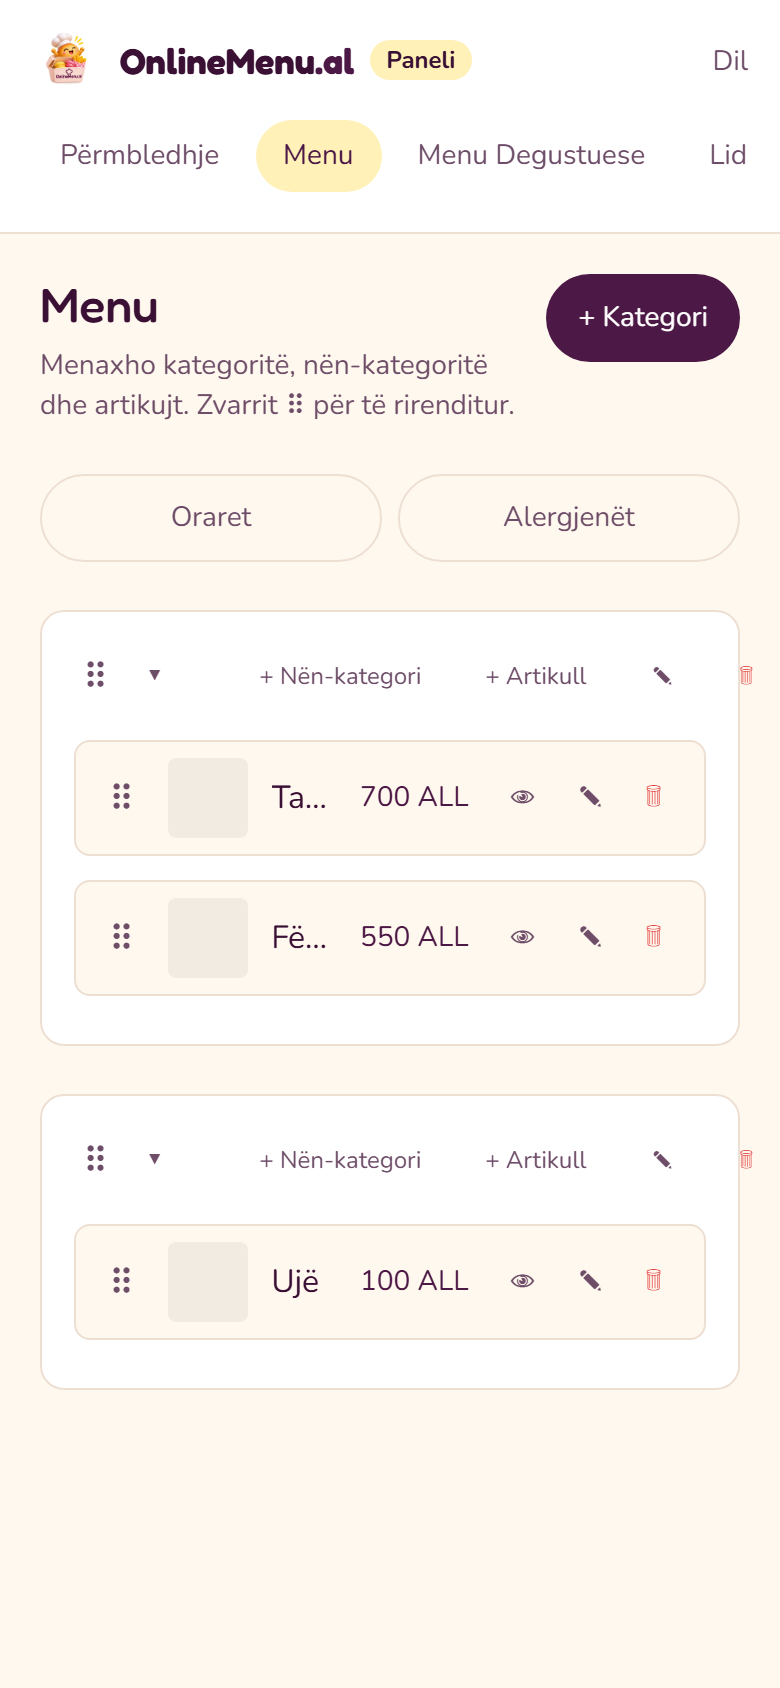
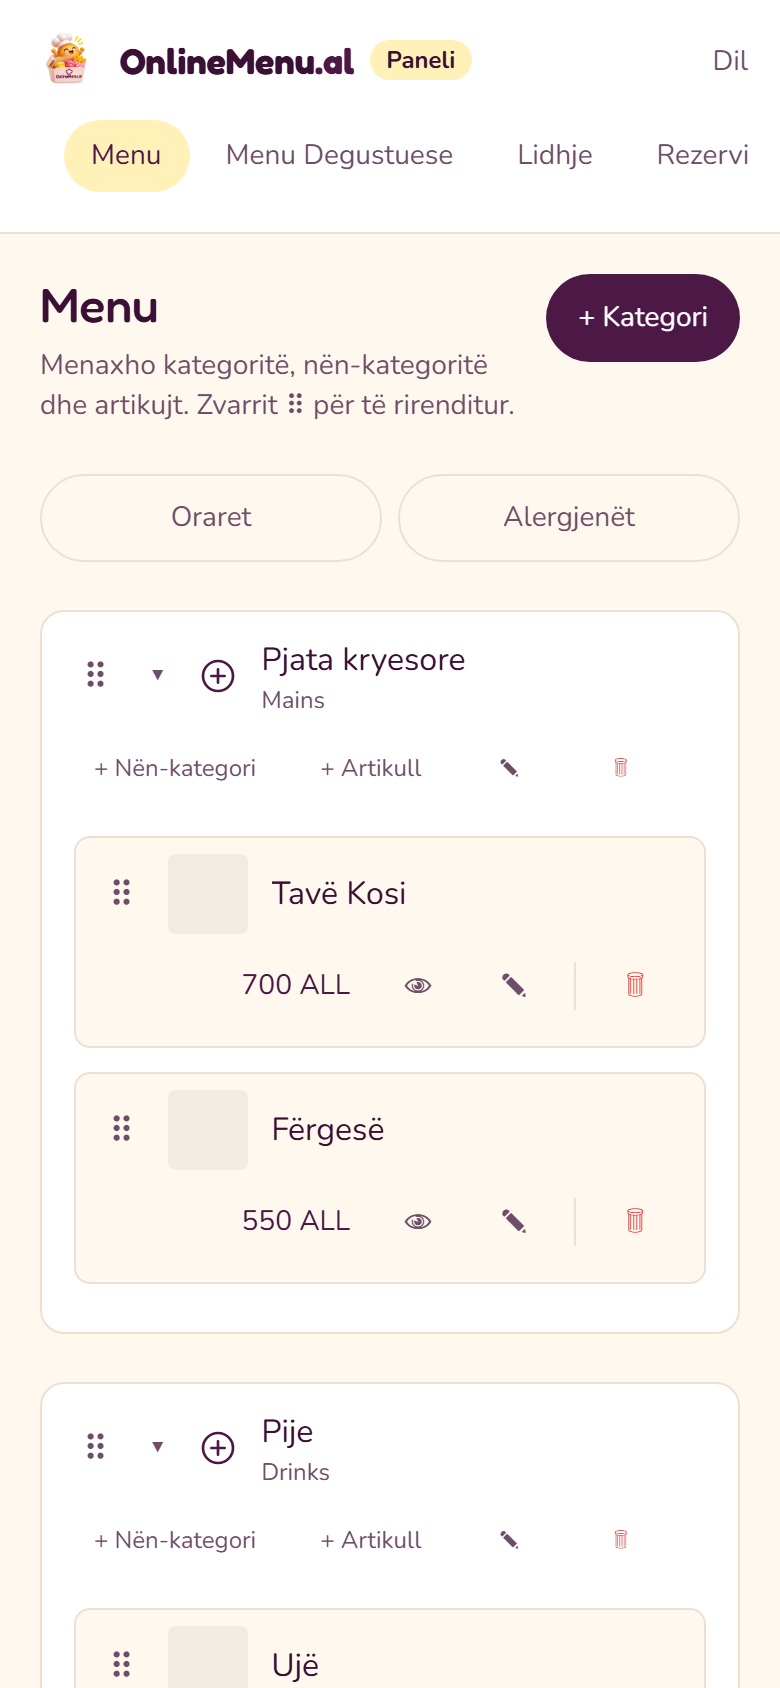
Korrigjimet vizuale: footer-i, Rezervime, profili pa përmbajtje, menuja në telefon
- Footer-i s'mbulohet nga shiriti Restoranti/Menuja/Informacion
- Rezervime: skelet ngarkimi dhe data e plotë në shqip
- Profili pa përmbajtje kryesore: një kolonë, pa hapësirë bosh në desktop
- Paneli → Menu: rreshtat kalojnë në dy rreshta në telefon; butonat e kategorisë ≥44 px

diff --git a/src/app/dashboard/reservations/reservations-client.tsx b/src/app/dashboard/reservations/reservations-client.tsx
@@ -27,6 +27,16 @@ const STATUS_STYLE: Record<string, string> = {
 const NEXT_STATUSES = ["Seated", "Completed", "NoShow", "Cancelled"];
 const STATUS_LABEL: Record<string, string> = { Confirmed: "Konfirmuar", Seated: "Në tryezë", Completed: "Përfunduar", NoShow: "S’erdhi", Cancelled: "Anuluar" };
 
+const SQ_DAYS = ["e diel", "e hënë", "e martë", "e mërkurë", "e enjte", "e premte", "e shtunë"];
+const SQ_MONTHS = ["janar", "shkurt", "mars", "prill", "maj", "qershor", "korrik", "gusht", "shtator", "tetor", "nëntor", "dhjetor"];
+/** "2026-11-13" → "e premte, 13 nëntor 2026" (pa varësi nga Intl/locale e shfletuesit). */
+function formatDateSq(iso: string) {
+  const [y, m, d] = iso.split("-").map(Number);
+  if (!y || !m || !d) return "";
+  const wd = new Date(Date.UTC(y, m - 1, d)).getUTCDay();
+  return `${SQ_DAYS[wd]}, ${d} ${SQ_MONTHS[m - 1]} ${y}`;
+}
+
 function todayISO() {
   const d = new Date();
   return `${d.getFullYear()}-${String(d.getMonth() + 1).padStart(2, "0")}-${String(d.getDate()).padStart(2, "0")}`;
@@ -82,14 +92,20 @@ export function ReservationsClient() {
       </div>
 
       <div className="mb-4 flex items-center gap-2">
-        <button onClick={() => shiftDay(-1)} className="min-h-11 rounded-lg border border-line px-3 text-sm hover:border-primary">←</button>
-        <input type="date" value={date} onChange={(e) => setDate(e.target.value)} className="rounded-lg border border-line bg-surface px-3 py-2 text-sm" />
-        <button onClick={() => shiftDay(1)} className="min-h-11 rounded-lg border border-line px-3 text-sm hover:border-primary">→</button>
+        <button onClick={() => shiftDay(-1)} aria-label="Dita e mëparshme" className="min-h-11 rounded-lg border border-line px-3 text-sm hover:border-primary">←</button>
+        <input type="date" lang="sq" aria-label="Data e rezervimeve" value={date} onChange={(e) => setDate(e.target.value)} className="min-h-11 rounded-lg border border-line bg-surface px-3 py-2 text-sm" />
+        <button onClick={() => shiftDay(1)} aria-label="Dita tjetër" className="min-h-11 rounded-lg border border-line px-3 text-sm hover:border-primary">→</button>
         <button onClick={() => setDate(todayISO())} className="min-h-11 rounded-lg border border-line px-3 text-sm text-muted hover:border-primary">Sot</button>
       </div>
+      {/* Data e qartë në shqip, pavarësisht gjuhës së shfletuesit (input-i date ndjek locale-n e tij). */}
+      <p className="-mt-2 mb-4 text-sm font-semibold text-ink" aria-live="polite">{formatDateSq(date)}</p>
 
       {loading ? (
-        <p className="text-muted">Duke ngarkuar…</p>
+        <ul className="space-y-3" aria-busy="true" aria-label="Duke ngarkuar rezervimet">
+          {[0, 1, 2].map((i) => (
+            <li key={i} className="h-24 animate-pulse rounded-2xl border border-line bg-surface motion-reduce:animate-none" />
+          ))}
+        </ul>
       ) : rows.length === 0 ? (
         <div className="rounded-2xl border border-dashed border-line p-10 text-center text-muted">Asnjë rezervim për këtë datë.</div>
       ) : (

diff --git a/src/components/public/restaurant-profile.tsx b/src/components/public/restaurant-profile.tsx
@@ -89,6 +89,8 @@ export function RestaurantProfile({ profile }: { profile: ProfileView }) {
   const website = profile.links.find((l) => l.type === "WEBSITE") ?? null;
   const mapsLink = profile.location.mapsLink;
   const hasLocation = Boolean(profile.address || profile.location.coords || mapsLink);
+  // Pa përmbajtje kryesore: s'lëmë kolonë bosh në desktop (karta e rezervimit zë vendin e saj).
+  const hasMainContent = Boolean(about || instagram || website || profile.phone || hasLocation);
   const reserveInternal = profile.reserveHref?.startsWith("/") ?? false;
   const reserveExt = profile.reserveHref && !reserveInternal ? { target: "_blank", rel: "noopener noreferrer" } : {};
 
@@ -173,8 +175,8 @@ export function RestaurantProfile({ profile }: { profile: ProfileView }) {
           </div>
         )}
 
-        <div className="om-profile-grid">
-          <div className="om-profile-main">
+        <div className={`om-profile-grid${hasMainContent ? "" : " om-profile-grid--solo"}`}>
+          {hasMainContent && <div className="om-profile-main">
             {about && (
               <section className="om-card om-about" aria-label={t("Rreth restorantit", "About the restaurant")}>
                 <p>{about}</p>
@@ -231,7 +233,7 @@ export function RestaurantProfile({ profile }: { profile: ProfileView }) {
                 routingUrl={profile.location.routingUrl}
               />
             )}
-          </div>
+          </div>}
 
           {/* Desktop: hapësirë anësore për rezervimin (në telefon butoni Rezervo është sipër). */}
           {profile.reserveHref && (

diff --git a/src/app/dashboard/menu/menu-manager.tsx b/src/app/dashboard/menu/menu-manager.tsx
@@ -181,7 +181,7 @@ export function MenuManager({
             {(handle) => (
               <div className="mb-3 rounded-xl border border-line bg-surface">
                 {/* Kreu i kategorisë */}
-                <div className="flex items-center gap-3 px-4 py-3">
+                <div className="flex flex-wrap items-center gap-x-3 gap-y-1 px-4 py-3">
                   <span {...handle} className="touch-none px-1 cursor-grab active:cursor-grabbing text-muted hover:text-muted text-lg">
                     ⠿
                   </span>
@@ -189,7 +189,7 @@ export function MenuManager({
                     {expanded.has(cat.id) ? "▾" : "▸"}
                   </button>
                   <CategoryIcon icon={cat.icon} className="w-5 h-5 text-primary" />
-                  <div className="flex-1 min-w-0">
+                  <div className="min-w-[9rem] flex-1">
                     <div className="flex items-center gap-2">
                       <span className="text-ink truncate">{cat.nameAl}</span>
                       {cat.scheduleId && scheduleById.has(cat.scheduleId) && (
@@ -357,7 +357,7 @@ function HeaderBtn({
     <button
       type="button"
       onClick={onClick}
-      className={`shrink-0 rounded-md px-2.5 py-1 text-xs hover:bg-black/5 transition ${
+      className={`inline-flex min-h-11 min-w-11 shrink-0 items-center justify-center rounded-md px-2.5 text-xs hover:bg-black/5 transition ${
         danger ? "text-red-600" : "text-muted"
       }`}
     >

diff --git a/src/components/menu/item-row.tsx b/src/components/menu/item-row.tsx
@@ -22,7 +22,7 @@ export function ItemRow({
 }) {
   return (
     <div
-      className={`flex items-center gap-3 rounded-lg border border-line bg-canvas px-3 py-2 mb-2 ${
+      className={`flex flex-wrap items-center gap-x-3 gap-y-1 rounded-lg border border-line bg-canvas px-3 py-2 mb-2 ${
         item.isVisible ? "" : "opacity-50"
       }`}
     >
@@ -37,7 +37,8 @@ export function ItemRow({
         <div className="h-10 w-10 rounded bg-black/5 shrink-0" />
       )}
 
-      <div className="min-w-0 flex-1">
+      {/* Emri merr vend të paktën 9rem; çmimi dhe veprimet kalojnë poshtë kur s'ka vend (telefon). */}
+      <div className="min-w-[9rem] flex-1">
         <div className="flex items-center gap-2 flex-wrap">
           <span className="text-ink truncate">{item.nameAl}</span>
           {item.isChefPick && (
@@ -66,7 +67,7 @@ export function ItemRow({
         )}
       </div>
 
-      <span className="text-primary whitespace-nowrap text-sm">
+      <span className="ml-auto text-primary whitespace-nowrap text-sm">
         {formatPrice(item.price)}
       </span>
 

diff --git a/src/components/public/om-public.css b/src/components/public/om-public.css
@@ -973,3 +973,23 @@ body:has(.om-site-header) :focus-visible {
   .qr-menu.om-menu .om-menu-art { width: 84px; height: 56px; margin-bottom: 2px; }
   .qr-menu.om-menu .qm-section-title { font-size: 1.55rem; margin-top: 2px; }
 }
+
+/* Footer-i s'mbulohet nga shiriti Restoranti/Menuja/Informacion (i fiksuar poshtë). */
+body:has(.rpub-tabs) .om-site-footer {
+  padding-bottom: calc(72px + env(safe-area-inset-bottom));
+}
+@media (min-width: 900px) {
+  body:has(.rpub-tabs) .om-site-footer {
+    padding-bottom: 96px;
+  }
+}
+
+/* Profil pa përmbajtje kryesore: një kolonë, karta e rezervimit pa kolonë bosh pranë. */
+@media (min-width: 960px) {
+  .om-profile-grid--solo {
+    grid-template-columns: minmax(0, 420px);
+  }
+  .om-profile-grid--solo .om-profile-side {
+    position: static;
+  }
+}

diff --git a/docs/redesign/AUDIT-PANEL.md b/docs/redesign/AUDIT-PANEL.md
@@ -28,10 +28,14 @@ Faqet publike të restorantit (`.rprofile`, `.qr-menu`) kanë fontet dhe ngjyrat
 | Anulimi | `confirm()` i shfletuesit | Dialog `<dialog>` modal: fokus te "Jo, mbaje", Tab/Enter/Esc, fokusi kthehet te butoni; "Po, anuloje" tekst i bardhë mbi #B4461F |
 | Hyrja/regjistrimi | Pa shenjë marke mbi formular | Logoja + emri |
 
-### Të vërejtura, pa ndryshim në këtë raund
+### Katër vërejtjet e raundit të kaluar (të korrigjuara më 2026-11-13)
 | # | Gjetja | Ndikimi | Prioriteti |
 |---|---|---|---|
 | 1 | Paneli → Menu: ikonat shiko/ndrysho/fshi janë ~20 px, nën 44 px për prekje; fshirja është pranë ndryshimit | Prekje të gabuara në telefon (edhe fshirje aksidentale); WCAG 2.5.5/2.5.8 | **I lartë** — pronari e përdor çdo ditë nga telefoni |
 | 2 | Profili publik në desktop: shiriti lundrues (Restoranti/Menuja/Informacion) mbulon footer-in në fund të faqes | Lidhjet ligjore të footer-it mbulohen pjesërisht; s'prek telefonin | **Mesatar** |
 | 3 | Paneli → Rezervime: "Duke ngarkuar…" pa skelet; data shfaqet sipas gjuhës së shfletuesit (p.sh. MM/DD/YYYY) | Kërcim i faqes gjatë ngarkimit; datë e paqartë për stafin me shfletues në anglisht | **Mesatar** |
 | 4 | Profili pa foto/informacion: kolona e majtë në desktop mbetet bosh | Vetëm estetikë, kur restoranti s'ka plotësuar profilin | **I ulët** |
+
+Korrigjimet: (1) butonat e artikujve dhe të kategorive ≥44 px me etiketa, fshirja e ndarë, rreshtat kalojnë në dy rreshta në telefon;
+(2) footer-i merr hapësirë poshtë kur ka shiritin e fiksuar (72 px telefon, 96 px desktop); (3) skelet ngarkimi + data në shqip
+("e premte, 13 nëntor 2026") te Rezervime; (4) profili pa përmbajtje kryesore përdor një kolonë, pa hapësirë bosh.
